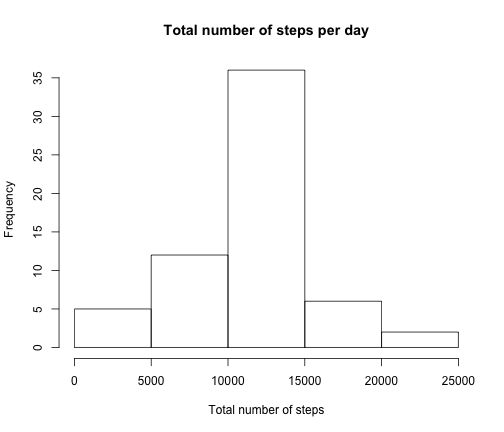
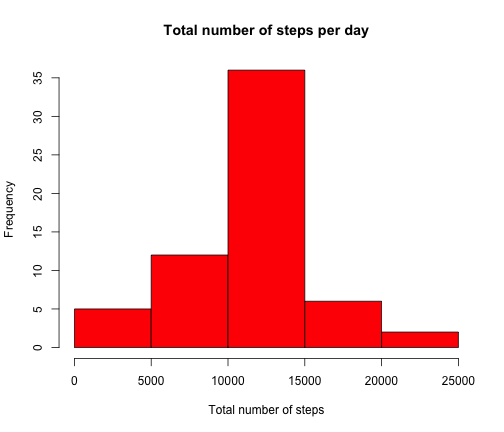
Peer Assessment 1

Changed region(s): [[0.1488, 0.1505, 0.9226, 0.8125]]

diff --git a/PA1_template.html b/PA1_template.html
@@ -279,10 +279,10 @@ for (i in 1:m){
 </ul>
 
 <pre><code class="r">h &lt;- tapply(data3$steps, data3$date, FUN=sum)
-hist(h,xlab = &quot;Total number of steps&quot;, main=&quot;Total number of steps per day&quot;)
+hist(h,xlab = &quot;Total number of steps&quot;, col = &quot;red&quot;, main=&quot;Total number of steps per day&quot;)
 </code></pre>
 
[2 lines of base64/hex data omitted]
 
 <ul>
 <li> Mean and median total number of steps taken per day</li>

diff --git a/PA1_template.md b/PA1_template.md
@@ -96,7 +96,7 @@ for (i in 1:m){
 
 ```r
 h <- tapply(data3$steps, data3$date, FUN=sum)
-hist(h,xlab = "Total number of steps", main="Total number of steps per day")
+hist(h,xlab = "Total number of steps", col = "red", main="Total number of steps per day")
 ```
 
 ![plot of chunk unnamed-chunk-9](figure/unnamed-chunk-9-1.png) 
